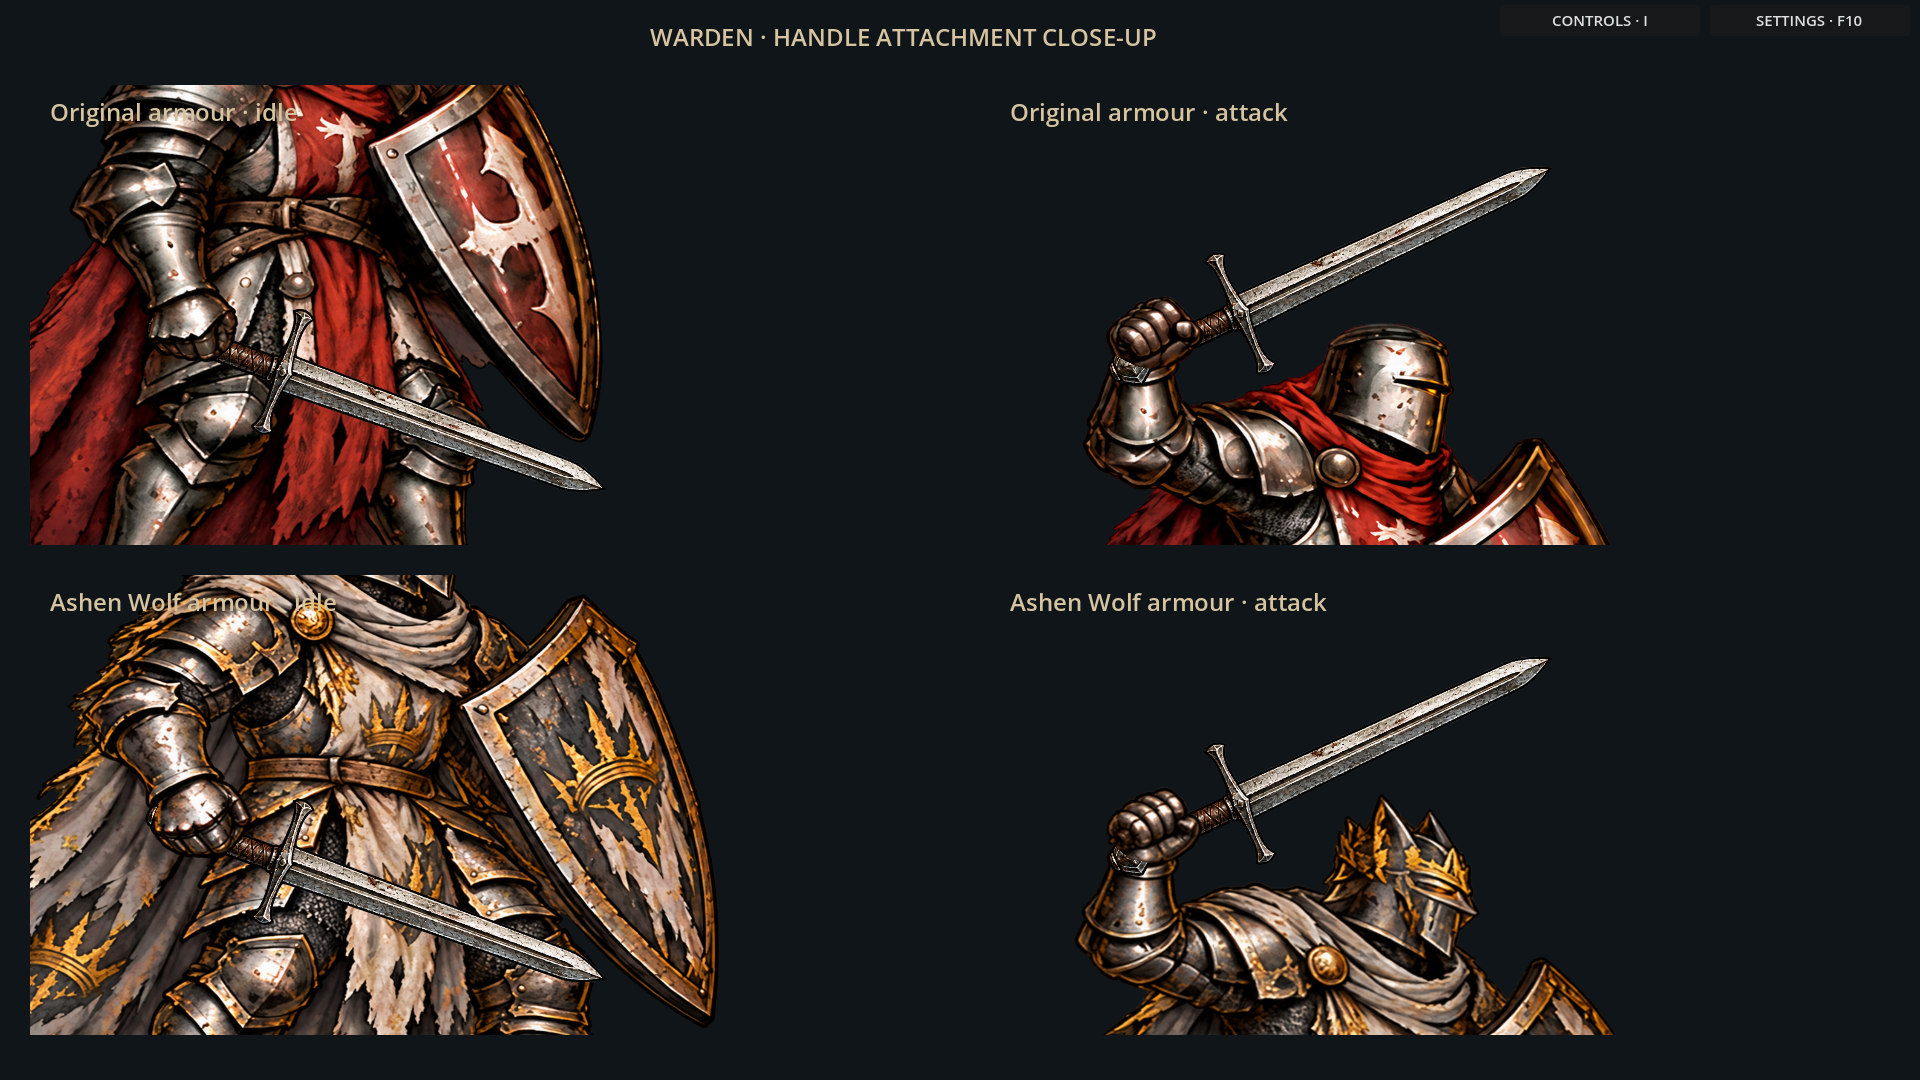
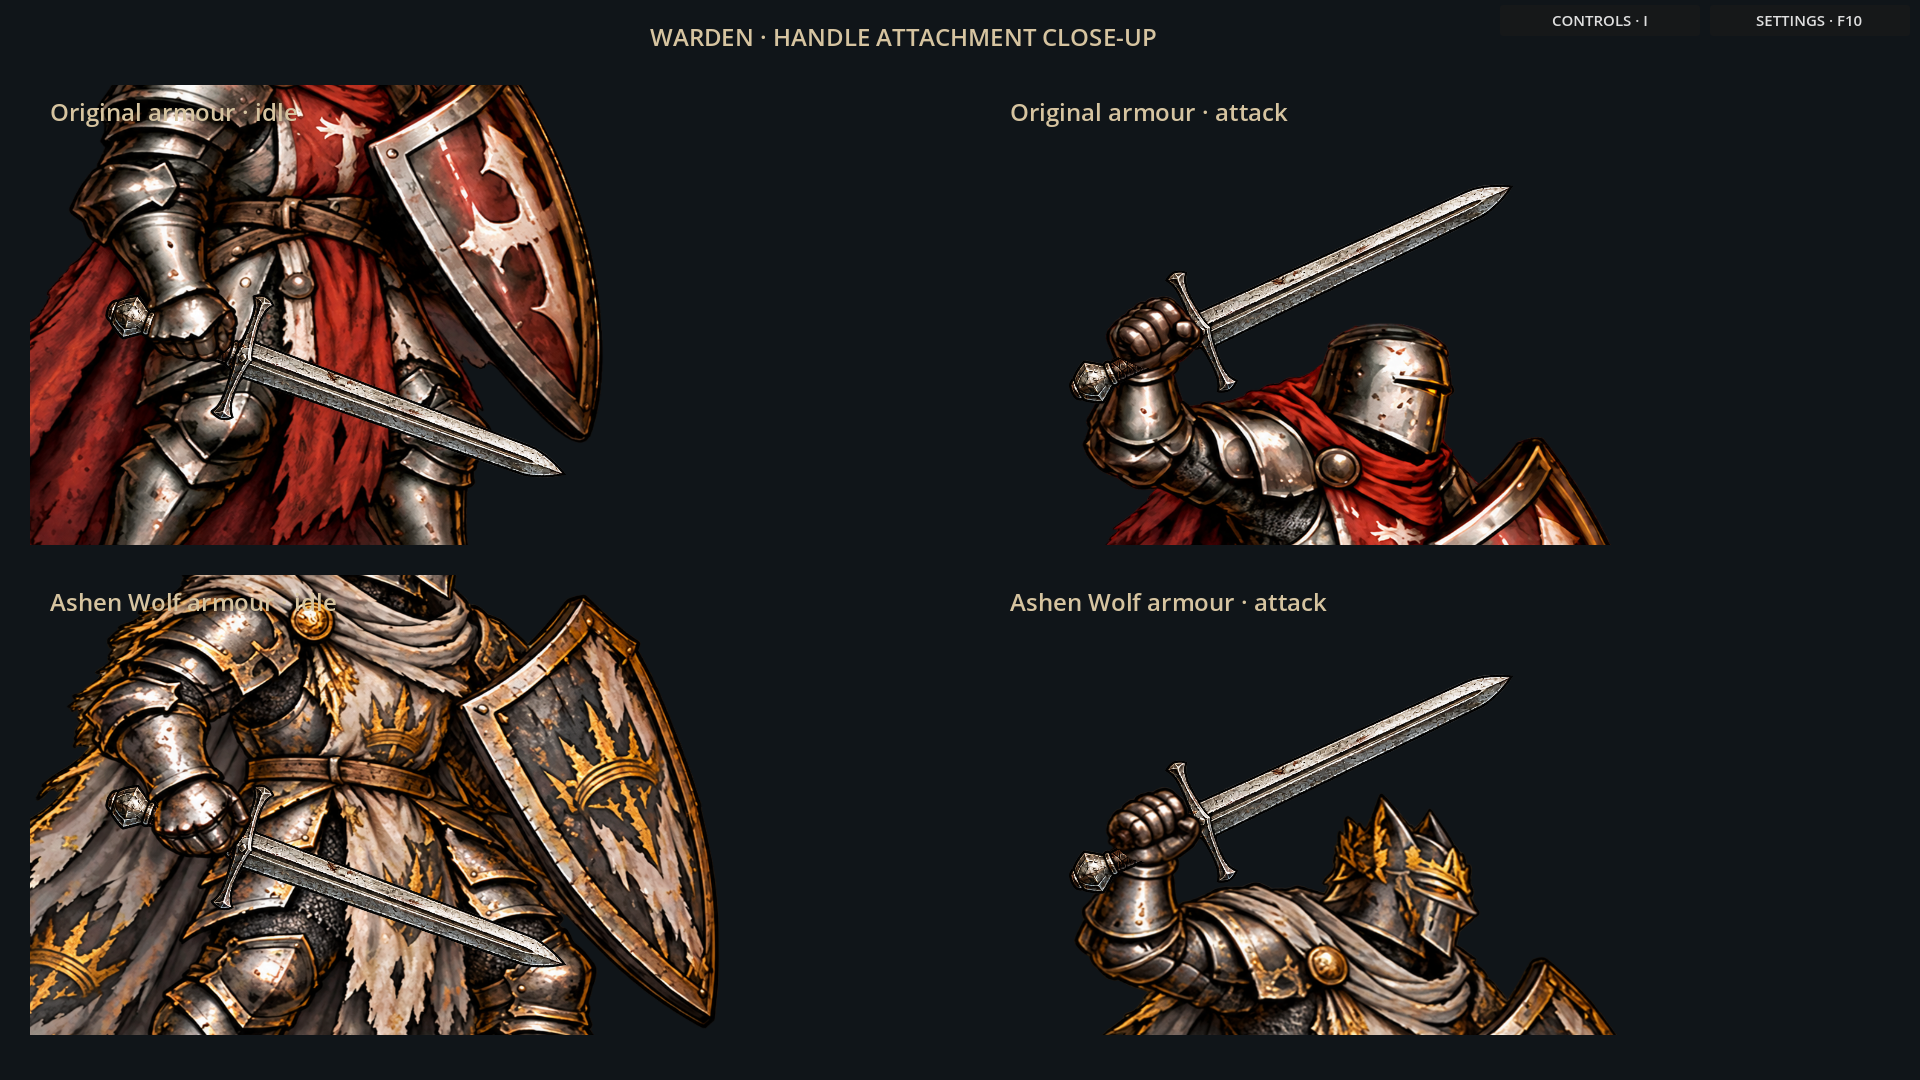
Raise Warden grip and add sparse neon pixel sparkles

diff --git a/docs/weapon_preview/README.md b/docs/weapon_preview/README.md
@@ -10,7 +10,7 @@ The current game remains intact; this preview has not replaced live combat art.
 [![Gauntlet and handle close-up](grip-closeup.png)](grip-closeup.png)
 
 Both original and Ashen Wolf armour use a shared body per pose. The iron sword,
-spiked mace and frost blade attach independently at measured hand grips, with
+spiked mace and frost blade attach independently with the hand three-quarters up each usable handle, with
 a gauntlet layer covering the handle. Weapon changes preserve the chosen armour,
 shield and body proportions.
 
@@ -18,10 +18,10 @@ The sword and Vigil of Winter resolve to existing Warden catalog items. The mace
 is a visual sample, not a new loot item. Other Warden weapons and other heroes
 have not yet been authored for this approach.
 
-## Restrained elemental wisps
+## Soft elemental smoke and neon pixel sparkles
 
 [![Elemental colour samples](effects.png)](effects.png)
-[Watch the smoke animation](wisp-closeup.gif) · [Full-scene loop](element-wisps.gif).
+[Watch the smoke and pixel sparkles](wisp-closeup.gif).
 
 [![Elemental smoke close-up](wisp-closeup.png)](wisp-closeup.png)
 
@@ -30,6 +30,11 @@ blade/head: muted crimson for Bleed, sickly green for Poison, ember orange for
 Burn, and pale blue for Chill. The existing Vigil of Winter demonstrates actual
 catalog resolution. Bleed/Poison/Burn panels are explicitly labelled colour
 samples; they do not add items, guarantee procs or change existing effects.
+Two-pixel neon cores and tiny cross-shaped accents blink and drift inside the
+smoke. The existing smoke strength, soft edges and movement remain unchanged.
+There are only a few sparks, coloured to match the element; ordinary weapons
+have neither smoke nor sparkles.
+
 Resistance bonuses, temporary statuses and charms do not colour the weapon.
 Motion obeys the game's ambient-motion setting.
 
@@ -48,7 +53,8 @@ save files, inventory or attack statistics are modified by the preview.
 
 The revised preview uses gauntlet-shaped foreground masks instead of rectangular
 patches, preventing surrounding armour from hiding the handle. Each pose has a
-measured grip inside the actual gauntlet. Wisps are wider and more visible than
+measured grip inside the actual gauntlet. Grip height is measured along the
+usable handle between guard and pommel, rather than across the whole weapon. Wisps are wider and more visible than
 the first preview, while retaining soft edges and slow movement. The focused
 loop enlarges the actual effect without changing its shader strength.
 
@@ -56,7 +62,8 @@ Validation: 93 Godot smoke checks, including body preservation during swaps,
 weapon silhouette changes, both attack grips, offensive-property filtering,
 unknown item fallback and freezing motion. Independent review found no Critical
 or Important issues. A native graphical check also compares smoke on/off against
-the dungeon for all four colours. Captures were rendered in Godot.
+the dungeon for all four colours, with a separate check that only a few bright
+pixel sparkles appear when enabled. Captures were rendered in Godot.
 
 Run the graphical check with a display available:
 
